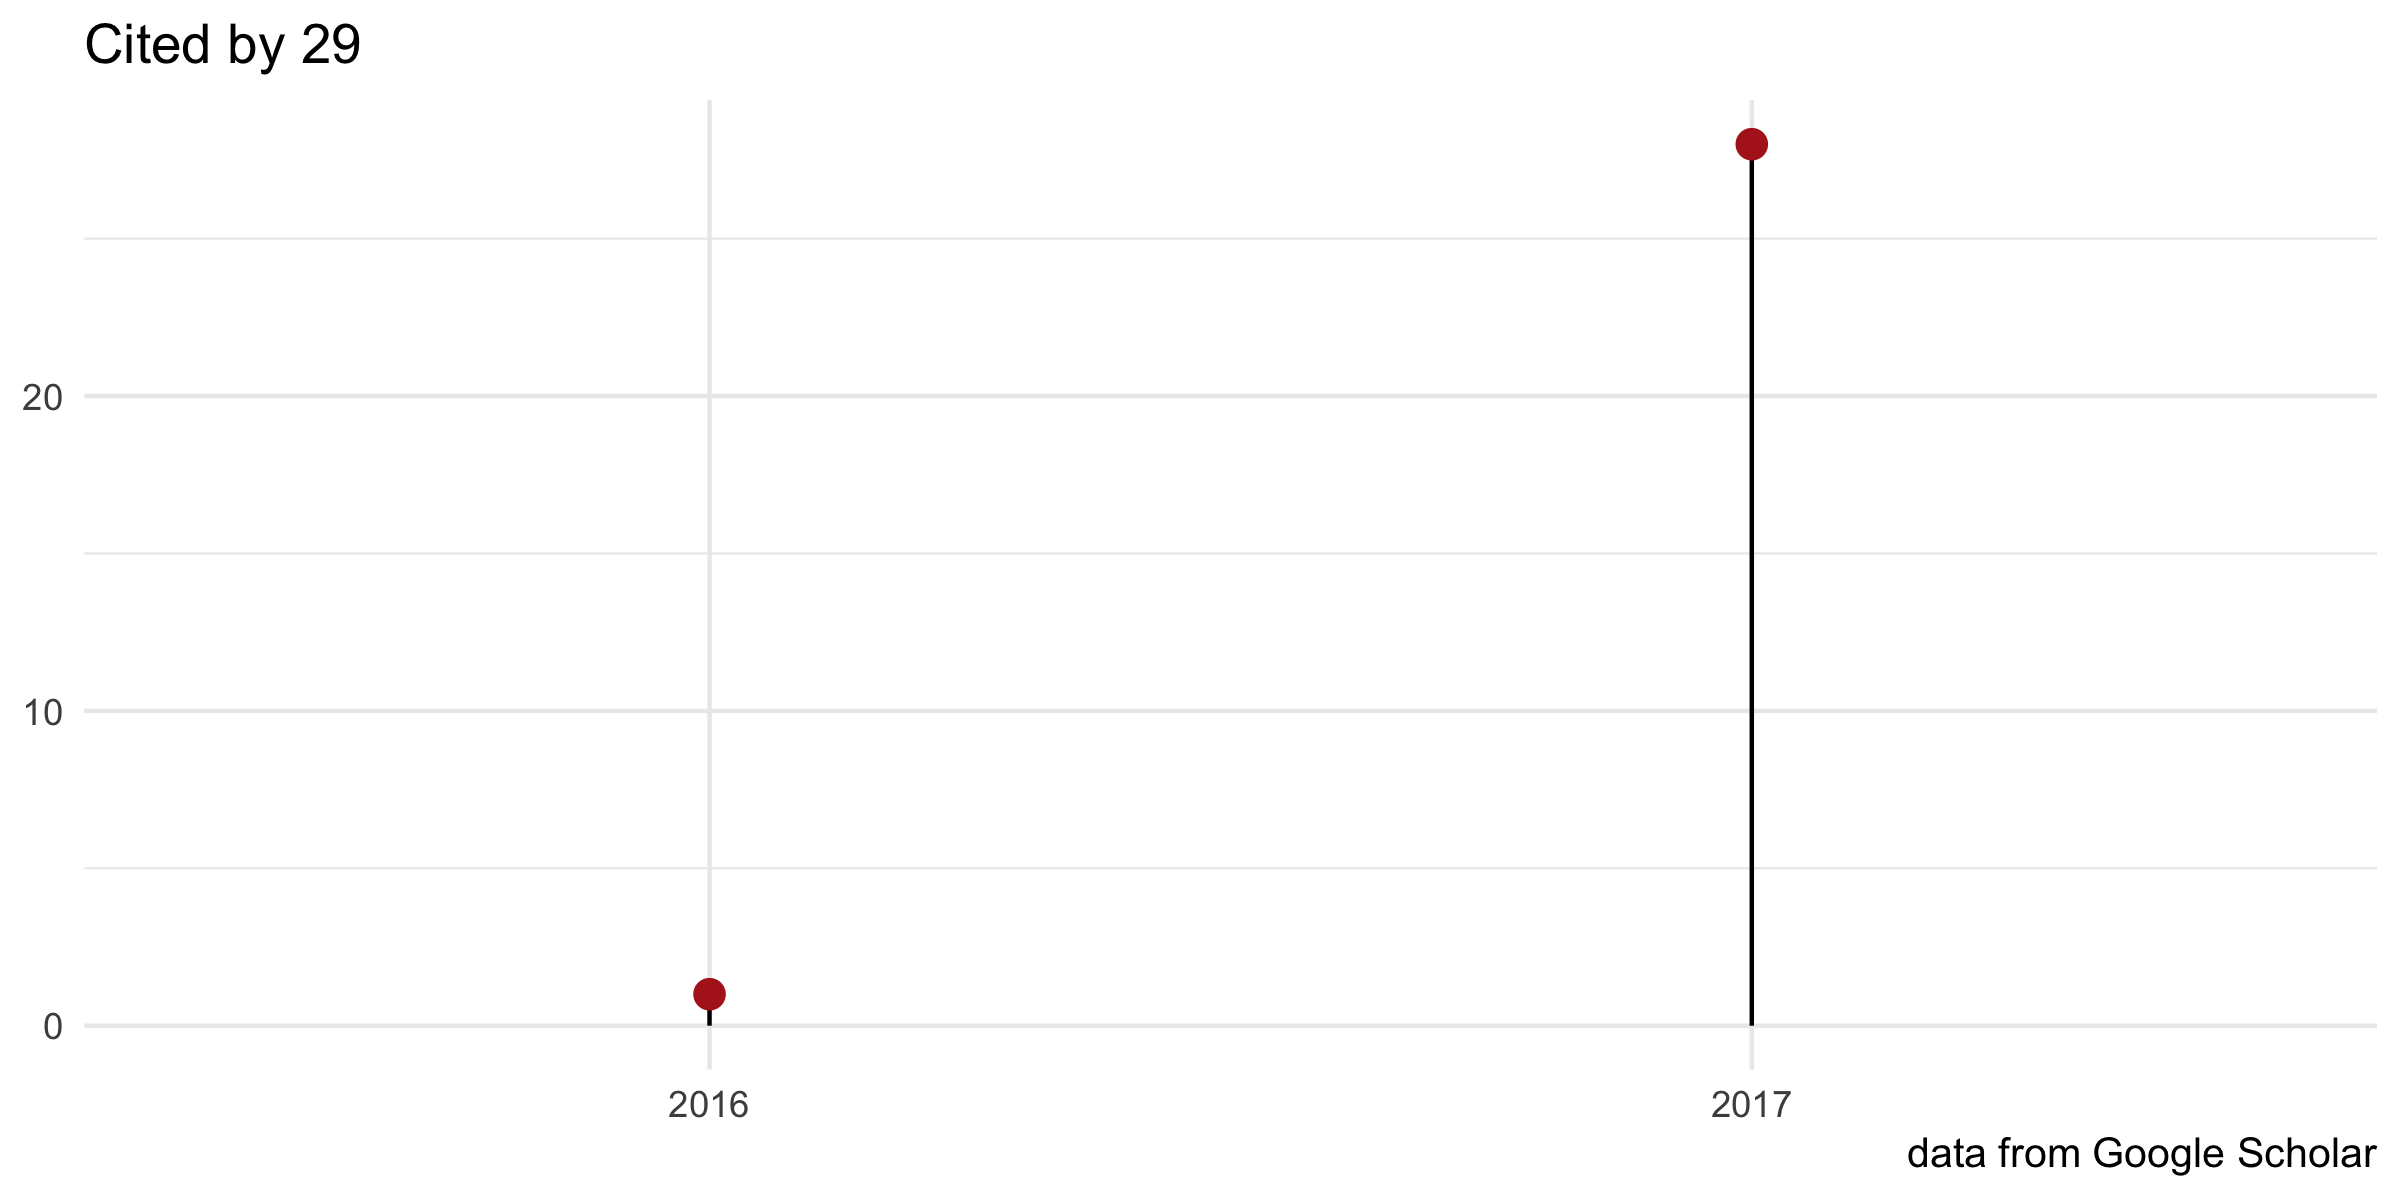
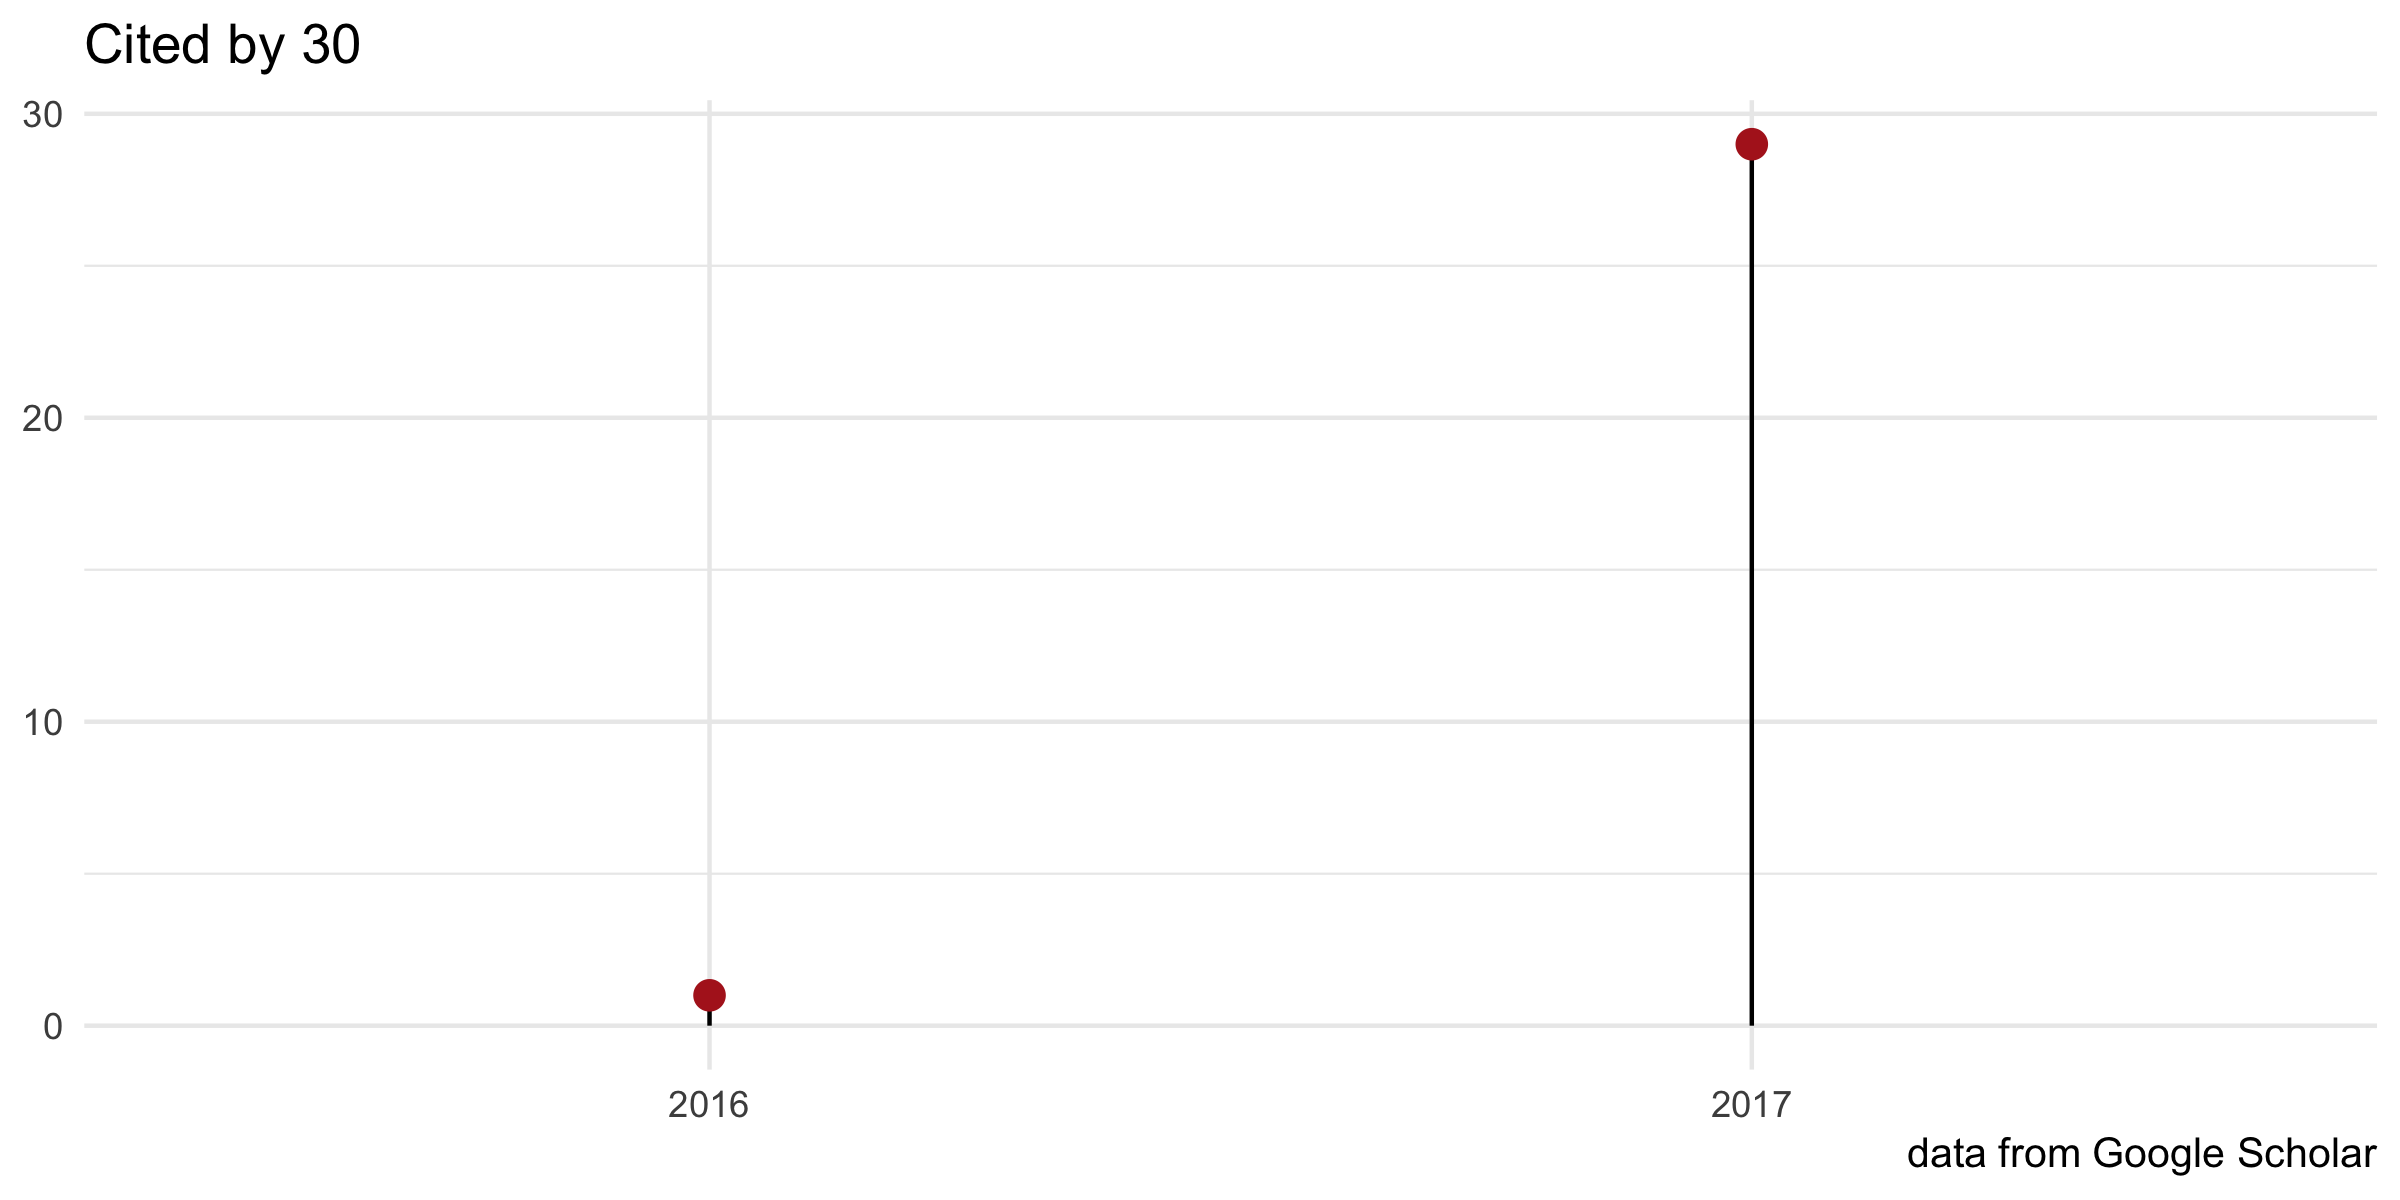
new citation

diff --git a/site_src/content/index.html b/site_src/content/index.html
@@ -9,7 +9,7 @@ weight: 1
 
 <p><link rel="stylesheet" href="https://guangchuangyu.github.io/css/font-awesome.min.css"> <link rel="stylesheet" href="https://guangchuangyu.github.io/css/academicons.min.css"></p>
 <p><img src="https://raw.githubusercontent.com/Bioconductor/BiocStickers/master/ggtree/ggtree.png" height="200" align="right" /></p>
-<p><a href="https://bioconductor.org/packages/ggtree"><img src="https://img.shields.io/badge/release%20version-1.8.1-blue.svg?style=flat" /></a> <a href="https://github.com/guangchuangyu/ggtree"><img src="https://img.shields.io/badge/devel%20version-1.9.3-blue.svg?style=flat" /></a> <a href="https://bioconductor.org/packages/stats/bioc/ggtree"><img src="https://img.shields.io/badge/download-17269/total-blue.svg?style=flat" /></a> <a href="https://bioconductor.org/packages/stats/bioc/ggtree"><img src="https://img.shields.io/badge/download-885/month-blue.svg?style=flat" /></a></p>
+<p><a href="https://bioconductor.org/packages/ggtree"><img src="https://img.shields.io/badge/release%20version-1.8.1-blue.svg?style=flat" /></a> <a href="https://github.com/guangchuangyu/ggtree"><img src="https://img.shields.io/badge/devel%20version-1.9.3-blue.svg?style=flat" /></a> <a href="https://bioconductor.org/packages/stats/bioc/ggtree"><img src="https://img.shields.io/badge/download-17742/total-blue.svg?style=flat" /></a> <a href="https://bioconductor.org/packages/stats/bioc/ggtree"><img src="https://img.shields.io/badge/download-834/month-blue.svg?style=flat" /></a></p>
 <p>The <code>ggtree</code> package extending the <em>ggplot2</em> package. It based on grammar of graphics and takes all the good parts of <em>ggplot2</em>. <em>ggtree</em> is designed for not only viewing phylogenetic tree but also displaying annotation data on the tree. <em>ggtree</em> is released within the <a href="https://bioconductor.org/packages/ggtree/">Bioconductor</a> project and the source code is hosted on <a href="https://github.com/GuangchuangYu/ggtree"><i class="fa fa-github fa-lg"></i> GitHub</a>.</p>
 <div id="authors" class="section level2">
 <h2><i class="fa fa-user"></i> Authors</h2>
@@ -18,7 +18,7 @@ weight: 1
 <div id="citation" class="section level2">
 <h2><i class="fa fa-book"></i> Citation</h2>
 <p>Please cite the following article when using <code>ggtree</code>:</p>
-<p><a href="http://dx.doi.org/10.1111/2041-210X.12628"><img src="https://img.shields.io/badge/doi-10.1111/2041--210X.12628-blue.svg?style=flat" /></a> <a href="https://www.altmetric.com/details/10533079"><img src="https://img.shields.io/badge/Altmetric-349-blue.svg?style=flat" /></a> <a href="https://scholar.google.com.hk/scholar?oi=bibs&amp;hl=en&amp;cites=7268358477862164627"><img src="https://img.shields.io/badge/cited%20by-29-blue.svg?style=flat" alt="citation" /></a></p>
+<p><a href="http://dx.doi.org/10.1111/2041-210X.12628"><img src="https://img.shields.io/badge/doi-10.1111/2041--210X.12628-blue.svg?style=flat" /></a> <a href="https://www.altmetric.com/details/10533079"><img src="https://img.shields.io/badge/Altmetric-347-blue.svg?style=flat" /></a> <a href="https://scholar.google.com.hk/scholar?oi=bibs&amp;hl=en&amp;cites=7268358477862164627"><img src="https://img.shields.io/badge/cited%20by-30-blue.svg?style=flat" alt="citation" /></a></p>
 <p><strong>G Yu</strong>, DK Smith, H Zhu, Y Guan, TTY Lam<sup>*</sup>. ggtree: an R package for visualization and annotation of phylogenetic trees with their covariates and other associated data. <strong><em>Methods in Ecology and Evolution</em></strong>. 2017, 8(1):28-36.</p>
 </div>
 <div id="featured-articles" class="section level2">

diff --git a/docs/index.html b/docs/index.html
@@ -344,7 +344,7 @@
 
 				<p><link rel="stylesheet" href="https://guangchuangyu.github.io/css/font-awesome.min.css"> <link rel="stylesheet" href="https://guangchuangyu.github.io/css/academicons.min.css"></p>
 <p><img src="https://raw.githubusercontent.com/Bioconductor/BiocStickers/master/ggtree/ggtree.png" height="200" align="right" /></p>
-<p><a href="https://bioconductor.org/packages/ggtree"><img src="https://img.shields.io/badge/release%20version-1.8.1-blue.svg?style=flat" /></a> <a href="https://github.com/guangchuangyu/ggtree"><img src="https://img.shields.io/badge/devel%20version-1.9.3-blue.svg?style=flat" /></a> <a href="https://bioconductor.org/packages/stats/bioc/ggtree"><img src="https://img.shields.io/badge/download-17269/total-blue.svg?style=flat" /></a> <a href="https://bioconductor.org/packages/stats/bioc/ggtree"><img src="https://img.shields.io/badge/download-885/month-blue.svg?style=flat" /></a></p>
+<p><a href="https://bioconductor.org/packages/ggtree"><img src="https://img.shields.io/badge/release%20version-1.8.1-blue.svg?style=flat" /></a> <a href="https://github.com/guangchuangyu/ggtree"><img src="https://img.shields.io/badge/devel%20version-1.9.3-blue.svg?style=flat" /></a> <a href="https://bioconductor.org/packages/stats/bioc/ggtree"><img src="https://img.shields.io/badge/download-17742/total-blue.svg?style=flat" /></a> <a href="https://bioconductor.org/packages/stats/bioc/ggtree"><img src="https://img.shields.io/badge/download-834/month-blue.svg?style=flat" /></a></p>
 <p>The <code>ggtree</code> package extending the <em>ggplot2</em> package. It based on grammar of graphics and takes all the good parts of <em>ggplot2</em>. <em>ggtree</em> is designed for not only viewing phylogenetic tree but also displaying annotation data on the tree. <em>ggtree</em> is released within the <a href="https://bioconductor.org/packages/ggtree/">Bioconductor</a> project and the source code is hosted on <a href="https://github.com/GuangchuangYu/ggtree"><i class="fa fa-github fa-lg"></i> GitHub</a>.</p>
 <div id="authors" class="section level2">
 <h2><i class="fa fa-user"></i> Authors</h2>
@@ -353,7 +353,7 @@
 <div id="citation" class="section level2">
 <h2><i class="fa fa-book"></i> Citation</h2>
 <p>Please cite the following article when using <code>ggtree</code>:</p>
-<p><a href="http://dx.doi.org/10.1111/2041-210X.12628"><img src="https://img.shields.io/badge/doi-10.1111/2041--210X.12628-blue.svg?style=flat" /></a> <a href="https://www.altmetric.com/details/10533079"><img src="https://img.shields.io/badge/Altmetric-349-blue.svg?style=flat" /></a> <a href="https://scholar.google.com.hk/scholar?oi=bibs&amp;hl=en&amp;cites=7268358477862164627"><img src="https://img.shields.io/badge/cited%20by-29-blue.svg?style=flat" alt="citation" /></a></p>
+<p><a href="http://dx.doi.org/10.1111/2041-210X.12628"><img src="https://img.shields.io/badge/doi-10.1111/2041--210X.12628-blue.svg?style=flat" /></a> <a href="https://www.altmetric.com/details/10533079"><img src="https://img.shields.io/badge/Altmetric-347-blue.svg?style=flat" /></a> <a href="https://scholar.google.com.hk/scholar?oi=bibs&amp;hl=en&amp;cites=7268358477862164627"><img src="https://img.shields.io/badge/cited%20by-30-blue.svg?style=flat" alt="citation" /></a></p>
 <p><strong>G Yu</strong>, DK Smith, H Zhu, Y Guan, TTY Lam<sup>*</sup>. ggtree: an R package for visualization and annotation of phylogenetic trees with their covariates and other associated data. <strong><em>Methods in Ecology and Evolution</em></strong>. 2017, 8(1):28-36.</p>
 </div>
 <div id="featured-articles" class="section level2">

diff --git a/site_src/content/gallery/index.html b/site_src/content/gallery/index.html
@@ -8,6 +8,12 @@ weight: 40
 
 <p><link rel="stylesheet" href="https://guangchuangyu.github.io/css/font-awesome.min.css"></p>
 <div class="figure">
+<img src="http://media.springernature.com/full/springer-static/image/art%3A10.1186%2Fs12915-017-0402-6/MediaObjects/12915_2017_402_Fig2_HTML.gif" />
+
+</div>
+<p><a href="https://doi.org/10.1186/s12915-017-0402-6" class="uri">https://doi.org/10.1186/s12915-017-0402-6</a></p>
+<hr />
+<div class="figure">
 <img src="https://guangchuangyu.github.io/featured_img/ggtree/fmicb-08-00543-g0002.jpg" />
 
 </div>

diff --git a/docs/gallery/index.html b/docs/gallery/index.html
@@ -343,6 +343,12 @@
 
 			<p><link rel="stylesheet" href="https://guangchuangyu.github.io/css/font-awesome.min.css"></p>
 <div class="figure">
+<img src="http://media.springernature.com/full/springer-static/image/art%3A10.1186%2Fs12915-017-0402-6/MediaObjects/12915_2017_402_Fig2_HTML.gif" />
+
+</div>
+<p><a href="https://doi.org/10.1186/s12915-017-0402-6" class="uri">https://doi.org/10.1186/s12915-017-0402-6</a></p>
+<hr />
+<div class="figure">
 <img src="https://guangchuangyu.github.io/featured_img/ggtree/fmicb-08-00543-g0002.jpg" />
 
 </div>

diff --git a/README.md b/README.md
@@ -4,9 +4,9 @@ ggtree: an R package for visualization and annotation of phylogenetic trees with
 
 <img src="https://raw.githubusercontent.com/Bioconductor/BiocStickers/master/ggtree/ggtree.png" height="200" align="right" />
 
-[![](https://img.shields.io/badge/release%20version-1.8.1-green.svg?style=flat)](https://bioconductor.org/packages/ggtree) [![](https://img.shields.io/badge/devel%20version-1.9.3-green.svg?style=flat)](https://github.com/guangchuangyu/ggtree) [![Bioc](http://www.bioconductor.org/shields/years-in-bioc/ggtree.svg)](https://www.bioconductor.org/packages/devel/bioc/html/ggtree.html#since) [![](https://img.shields.io/badge/download-17269/total-blue.svg?style=flat)](https://bioconductor.org/packages/stats/bioc/ggtree) [![](https://img.shields.io/badge/download-885/month-blue.svg?style=flat)](https://bioconductor.org/packages/stats/bioc/ggtree)
+[![](https://img.shields.io/badge/release%20version-1.8.1-green.svg?style=flat)](https://bioconductor.org/packages/ggtree) [![](https://img.shields.io/badge/devel%20version-1.9.3-green.svg?style=flat)](https://github.com/guangchuangyu/ggtree) [![Bioc](http://www.bioconductor.org/shields/years-in-bioc/ggtree.svg)](https://www.bioconductor.org/packages/devel/bioc/html/ggtree.html#since) [![](https://img.shields.io/badge/download-17742/total-blue.svg?style=flat)](https://bioconductor.org/packages/stats/bioc/ggtree) [![](https://img.shields.io/badge/download-834/month-blue.svg?style=flat)](https://bioconductor.org/packages/stats/bioc/ggtree)
 
-[![Project Status: Active - The project has reached a stable, usable state and is being actively developed.](http://www.repostatus.org/badges/latest/active.svg)](http://www.repostatus.org/#active) [![codecov](https://codecov.io/gh/GuangchuangYu/ggtree/branch/master/graph/badge.svg)](https://codecov.io/gh/GuangchuangYu/ggtree) [![Last-changedate](https://img.shields.io/badge/last%20change-2017--08--03-green.svg)](https://github.com/GuangchuangYu/ggtree/commits/master) [![GitHub forks](https://img.shields.io/github/forks/GuangchuangYu/ggtree.svg)](https://github.com/GuangchuangYu/ggtree/network) [![GitHub stars](https://img.shields.io/github/stars/GuangchuangYu/ggtree.svg)](https://github.com/GuangchuangYu/ggtree/stargazers) [![Awesome](https://cdn.rawgit.com/sindresorhus/awesome/d7305f38d29fed78fa85652e3a63e154dd8e8829/media/badge.svg)](https://awesome-r.com/#awesome-r-graphic-displays)
+[![Project Status: Active - The project has reached a stable, usable state and is being actively developed.](http://www.repostatus.org/badges/latest/active.svg)](http://www.repostatus.org/#active) [![codecov](https://codecov.io/gh/GuangchuangYu/ggtree/branch/master/graph/badge.svg)](https://codecov.io/gh/GuangchuangYu/ggtree) [![Last-changedate](https://img.shields.io/badge/last%20change-2017--08--07-green.svg)](https://github.com/GuangchuangYu/ggtree/commits/master) [![GitHub forks](https://img.shields.io/github/forks/GuangchuangYu/ggtree.svg)](https://github.com/GuangchuangYu/ggtree/network) [![GitHub stars](https://img.shields.io/github/stars/GuangchuangYu/ggtree.svg)](https://github.com/GuangchuangYu/ggtree/stargazers) [![Awesome](https://cdn.rawgit.com/sindresorhus/awesome/d7305f38d29fed78fa85652e3a63e154dd8e8829/media/badge.svg)](https://awesome-r.com/#awesome-r-graphic-displays)
 
 [![platform](http://www.bioconductor.org/shields/availability/devel/ggtree.svg)](https://www.bioconductor.org/packages/devel/bioc/html/ggtree.html#archives) [![Build Status](http://www.bioconductor.org/shields/build/devel/bioc/ggtree.svg)](https://bioconductor.org/checkResults/devel/bioc-LATEST/ggtree/) [![Linux/Mac Travis Build Status](https://img.shields.io/travis/GuangchuangYu/ggtree/master.svg?label=Mac%20OSX%20%26%20Linux)](https://travis-ci.org/GuangchuangYu/ggtree) [![AppVeyor Build Status](https://img.shields.io/appveyor/ci/Guangchuangyu/ggtree/master.svg?label=Windows)](https://ci.appveyor.com/project/GuangchuangYu/ggtree) [![Backers on Open Collective](https://opencollective.com/ggtree/backers/badge.svg)](#backers) [![Sponsors on Open Collective](https://opencollective.com/ggtree/sponsors/badge.svg)](#sponsors)
 
@@ -27,7 +27,7 @@ Please cite the following article when using `ggtree`:
 
 **G Yu**, DK Smith, H Zhu, Y Guan, TTY Lam<sup>\*</sup>. ggtree: an R package for visualization and annotation of phylogenetic trees with their covariates and other associated data. ***Methods in Ecology and Evolution***. 2017, 8(1):28-36.
 
-[![](https://img.shields.io/badge/doi-10.1111/2041--210X.12628-green.svg?style=flat)](http://dx.doi.org/10.1111/2041-210X.12628) [![](https://img.shields.io/badge/Altmetric-349-green.svg?style=flat)](https://www.altmetric.com/details/10533079) [![citation](https://img.shields.io/badge/cited%20by-29-green.svg?style=flat)](https://scholar.google.com.hk/scholar?oi=bibs&hl=en&cites=7268358477862164627)
+[![](https://img.shields.io/badge/doi-10.1111/2041--210X.12628-green.svg?style=flat)](http://dx.doi.org/10.1111/2041-210X.12628) [![](https://img.shields.io/badge/Altmetric-347-green.svg?style=flat)](https://www.altmetric.com/details/10533079) [![citation](https://img.shields.io/badge/cited%20by-30-green.svg?style=flat)](https://scholar.google.com.hk/scholar?oi=bibs&hl=en&cites=7268358477862164627)
 
 ------------------------------------------------------------------------
 
@@ -37,7 +37,7 @@ Please cite the following article when using `ggtree`:
 
 ### Download stats
 
-[![download](http://www.bioconductor.org/shields/downloads/ggtree.svg)](https://bioconductor.org/packages/stats/bioc/ggtree) [![](https://img.shields.io/badge/download-17269/total-blue.svg?style=flat)](https://bioconductor.org/packages/stats/bioc/ggtree) [![](https://img.shields.io/badge/download-885/month-blue.svg?style=flat)](https://bioconductor.org/packages/stats/bioc/ggtree)
+[![download](http://www.bioconductor.org/shields/downloads/ggtree.svg)](https://bioconductor.org/packages/stats/bioc/ggtree) [![](https://img.shields.io/badge/download-17742/total-blue.svg?style=flat)](https://bioconductor.org/packages/stats/bioc/ggtree) [![](https://img.shields.io/badge/download-834/month-blue.svg?style=flat)](https://bioconductor.org/packages/stats/bioc/ggtree)
 
 <img src="docs/images/dlstats.png" width="890"/>
 
